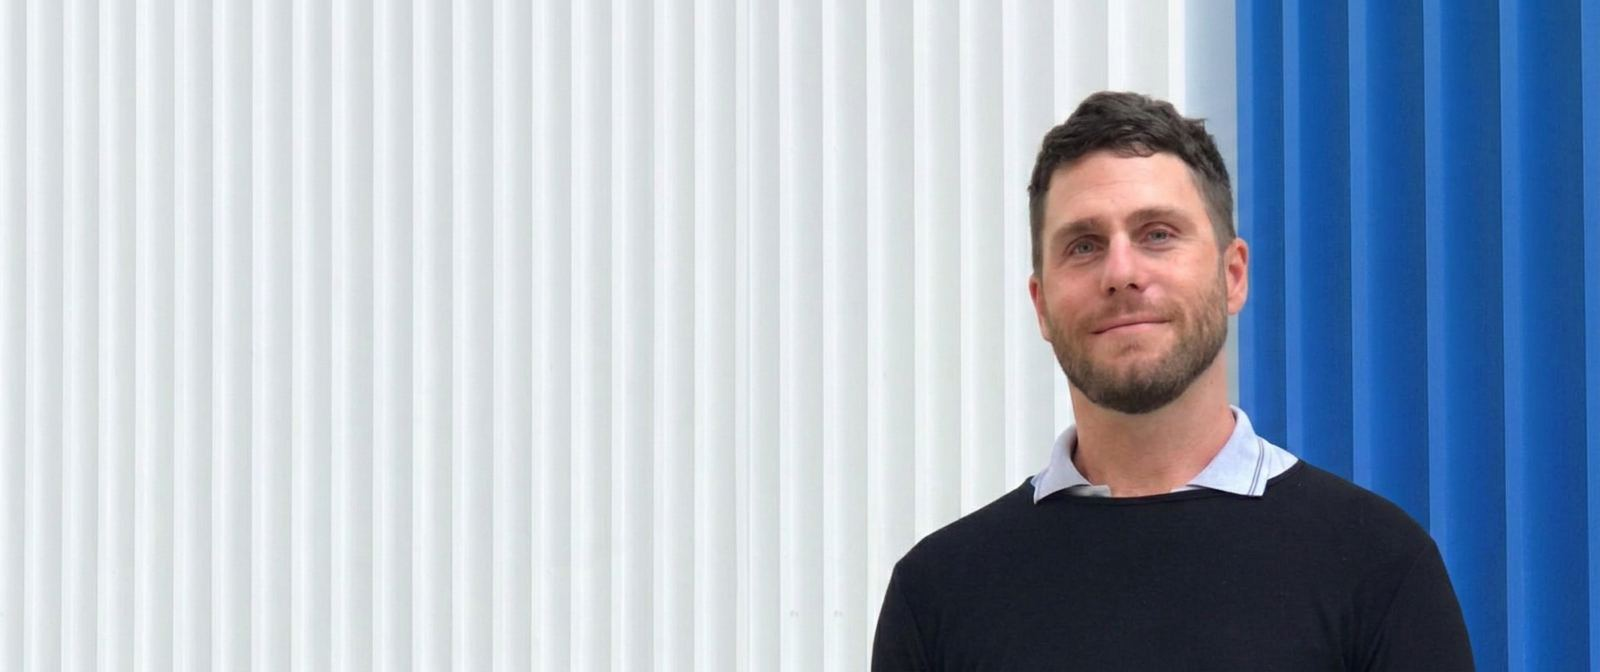
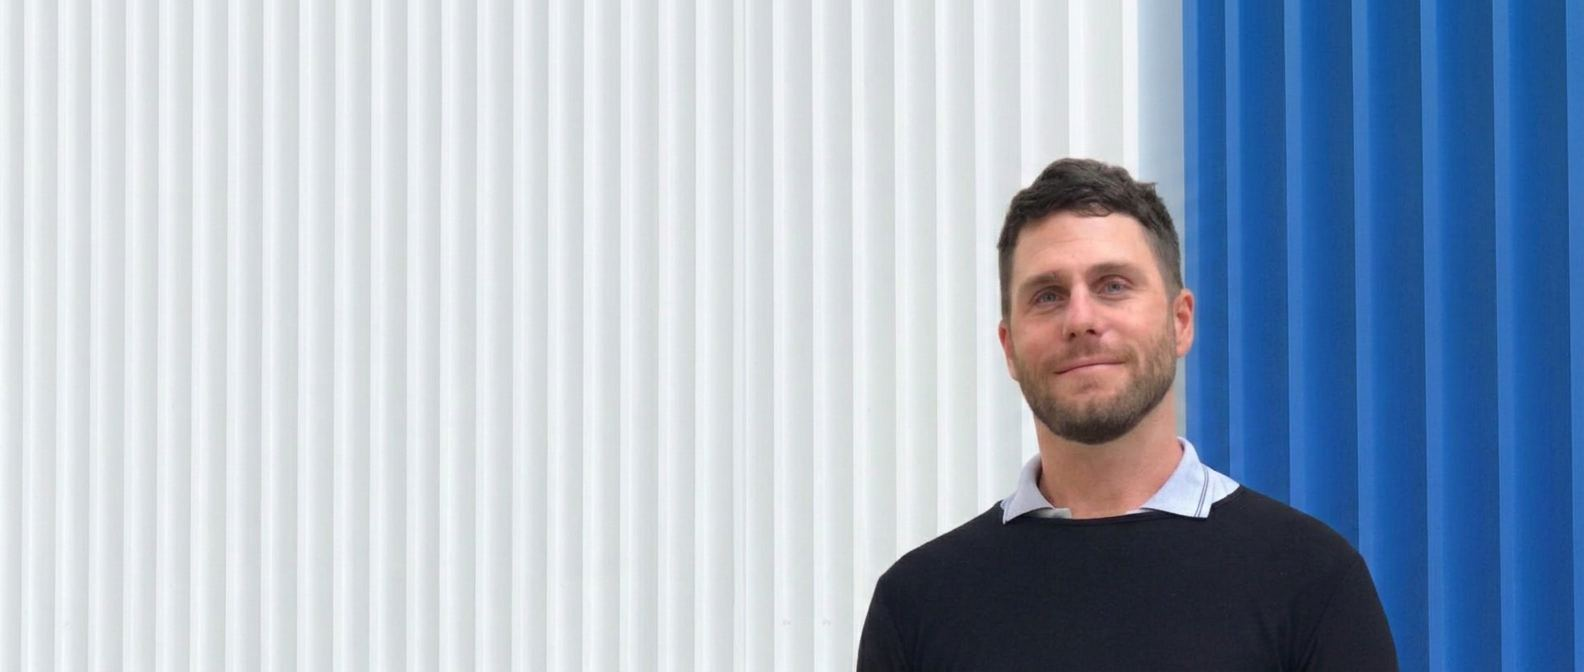
feat: ajustes del hero de Home y texto de enfoque compartido con Info
- Hero mas alto (92vh/90vh), bloque de texto corrido hacia el centro
  y mas arriba en desktop, tipografia mas grande en todo el bloque
  (mas protagonismo), fondo centrado.
- Nueva clase .content-width (75vw, tope 1200px) para contener la
  seccion de video + bio en vez de que ocupe todo el ancho.
- Arregla espaciado asimetrico en el marquee (el punto separador
  tenia mas aire de un lado que del otro por un padding duplicado).
- Extrae el texto de "Mi enfoque" a un componente compartido
  (EnfoqueContent), usado tal cual en Info y ahora tambien en Home en
  desktop (reemplaza el link "Conocé más" por el texto completo). En
  mobile Home mantiene el teaser corto + link, sin cambios ahi.
- Recomprime portada.jpg (habia vuelto a pesar 521KB).

diff --git a/src/pages/Home.jsx b/src/pages/Home.jsx
@@ -3,6 +3,7 @@ import { ArticleCard } from "../components/ArticleCard";
 import { Reveal } from "../components/Reveal";
 import { Marquee } from "../components/Marquee";
 import { Accordion } from "../components/Accordion";
+import { EnfoqueContent } from "../components/EnfoqueContent";
 import FaqArray from "../components/Faq";
 import { BsWhatsapp } from "react-icons/bs";
 import { Helmet } from "react-helmet-async";
@@ -53,7 +54,7 @@ export const Home = () => {
       <section className="hero-banner hero-top-offset">
         <div className="container-fluid">
           <div className="hero-banner-content row">
-            <div className="col-12 col-lg-6">
+            <div className="col-12 col-lg-6 offset-lg-1">
               <Reveal className="hero-banner-copy">
                 <h1 className="hero-title mb-2">Lic. Juan Pablo Sanjorge</h1>
                 <p className="hero-subtitle mb-4">Psicólogo Clínico</p>
@@ -93,7 +94,7 @@ export const Home = () => {
       <Marquee items={malestares} />
 
       <section className="py-5">
-        <div className="container-fluid">
+        <div className="content-width">
           <div className="row align-items-center g-5">
             <div className="col-12 col-lg-5">
               <Reveal className="d-flex justify-content-center justify-content-lg-start">
@@ -108,15 +109,20 @@ export const Home = () => {
 
             <div className="col-12 col-lg-7">
               <Reveal delay={0.15}>
-                <p className="bio-statement mb-4">
-                  Escuchar es solo el comienzo.{" "}
-                  <mark>Deconstruir lo que parece dado</mark> y construir
-                  nuevas formas de interpretar lo que nos sucede es el
-                  horizonte.
-                </p>
-                <Link to="/info#enfoque" className="link-primary">
-                  Conocé más sobre mi enfoque →
-                </Link>
+                <div className="d-lg-none">
+                  <p className="bio-statement mb-4">
+                    Escuchar es solo el comienzo.{" "}
+                    <mark>Deconstruir lo que parece dado</mark> y construir
+                    nuevas formas de interpretar lo que nos sucede es el
+                    horizonte.
+                  </p>
+                  <Link to="/info#enfoque" className="link-primary">
+                    Conocé más sobre mi enfoque →
+                  </Link>
+                </div>
+                <div className="d-none d-lg-block">
+                  <EnfoqueContent />
+                </div>
               </Reveal>
             </div>
           </div>

diff --git a/src/pages/Info.jsx b/src/pages/Info.jsx
@@ -1,6 +1,7 @@
 import { BsWhatsapp } from "react-icons/bs";
 import { Helmet } from "react-helmet-async";
 import { Reveal } from "../components/Reveal";
+import { EnfoqueContent } from "../components/EnfoqueContent";
 
 export const Info = () => {
   return (
@@ -66,30 +67,7 @@ export const Info = () => {
             <span className="badge-pill mb-3 d-inline-block">
               Mi enfoque
             </span>
-            <p className="enfoque-statement mb-4">
-              Escuchar es solo el comienzo.{" "}
-              <mark>
-                Deconstruir lo que parece dado y construir nuevas formas de
-                interpretar lo que nos sucede
-              </mark>{" "}
-              es el horizonte.
-            </p>
-            <div className="enfoque-body">
-              <p className="mb-3">
-                Mi práctica clínica se sostiene en una formación permanente y
-                en un trabajo cuidadoso y particular sobre cada tratamiento.
-                Además de lo que sucede durante las sesiones, dedico tiempo a
-                revisar, estudiar y elaborar el material de cada caso,
-                buscando comprender qué está ocurriendo y qué orientación
-                puede resultar más adecuada para ese tratamiento.
-              </p>
-              <p className="m-0">
-                No trabajo con respuestas prefabricadas. Cada tratamiento
-                requiere una escucha atenta, una reflexión sostenida y una
-                forma de abordaje acorde con aquello que lleva a cada persona
-                a consultar.
-              </p>
-            </div>
+            <EnfoqueContent />
           </Reveal>
         </div>
       </section>

diff --git a/src/components/EnfoqueContent.jsx b/src/components/EnfoqueContent.jsx
@@ -1,0 +1,29 @@
+export const EnfoqueContent = () => (
+  <>
+    <p className="enfoque-statement mb-4">
+      Escuchar es solo el comienzo.{" "}
+      <mark>
+        Deconstruir lo que parece dado y construir nuevas formas de
+        interpretar lo que nos sucede
+      </mark>{" "}
+      es el horizonte.
+    </p>
+    <div className="enfoque-body">
+      <p className="mb-3">
+        Mi práctica clínica se sostiene en una formación permanente y en un
+        trabajo cuidadoso y particular sobre cada tratamiento. Además de lo
+        que sucede durante las sesiones, dedico tiempo a revisar, estudiar y
+        elaborar el material de cada caso, buscando comprender qué está
+        ocurriendo y qué orientación puede resultar más adecuada para ese
+        tratamiento.
+      </p>
+      <p className="m-0">
+        No trabajo con respuestas prefabricadas. Cada tratamiento requiere
+        una escucha atenta, una reflexión sostenida y una forma de abordaje
+        acorde con aquello que lleva a cada persona a consultar.
+      </p>
+    </div>
+  </>
+);
+
+export default EnfoqueContent;

diff --git a/src/styles/_home.scss b/src/styles/_home.scss
@@ -51,10 +51,10 @@
   position: relative;
   display: flex;
   align-items: center;
-  min-height: 75vh;
+  min-height: 92vh;
   background-image: url("/img/portada.jpg");
   background-size: cover;
-  background-position: center right;
+  background-position: center center;
   overflow: hidden;
 }
 
@@ -76,16 +76,44 @@
   z-index: 1;
 }
 
+@media (min-width: 992px) {
+  .hero-banner-content {
+    margin-top: -10vh;
+  }
+}
+
 .hero-banner-copy {
-  max-width: 460px;
+  max-width: 580px;
   margin: 0 auto;
   padding: 2.5rem 0;
+
+  .hero-title {
+    font-size: var(--text-4xl);
+  }
+
+  .hero-subtitle {
+    font-size: var(--text-2xl);
+  }
+
+  .hero-lead {
+    font-size: var(--text-xl);
+  }
+
+  .badge-pill {
+    font-size: var(--text-sm);
+    padding: 0.5rem 1.15rem;
+  }
+
+  .btn-pill {
+    font-size: var(--text-lg);
+    padding: 1rem 2.15rem;
+  }
 }
 
 @media (max-width: 991.98px) {
   .hero-banner {
-    min-height: 85vh;
-    background-position: top center;
+    min-height: 90vh;
+    background-position: center center;
     align-items: flex-start;
   }
 

diff --git a/src/styles/_marquee.scss b/src/styles/_marquee.scss
@@ -21,12 +21,11 @@
   font-weight: 500;
   font-size: var(--text-lg);
   color: var(--color-primary-dark);
-  padding: 0 1.5rem;
 }
 
 .marquee-dot {
   color: var(--color-primary);
-  margin-left: 1.5rem;
+  margin: 0 1.5rem;
 }
 
 @keyframes marquee-scroll {

diff --git a/src/styles/_components.scss b/src/styles/_components.scss
@@ -97,6 +97,12 @@
   padding-top: 110px;
 }
 
+.content-width {
+  width: 75vw;
+  max-width: 1200px;
+  margin: 0 auto;
+}
+
 .section-glow {
   position: relative;
   overflow: hidden;
